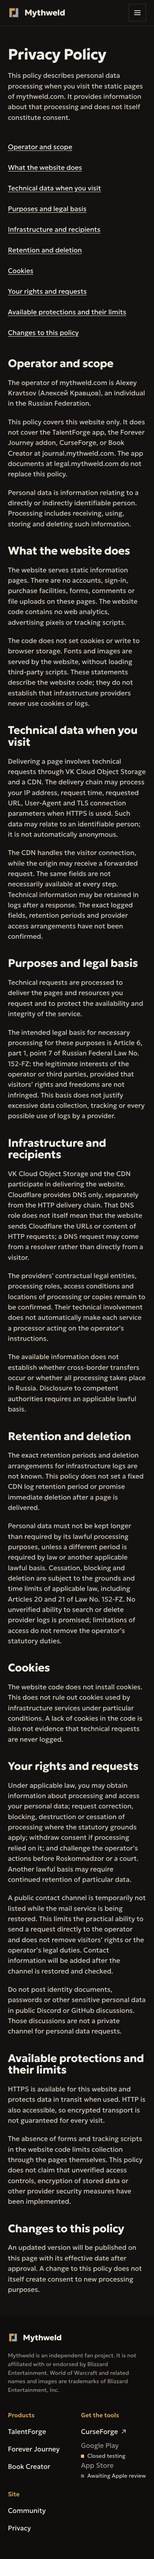
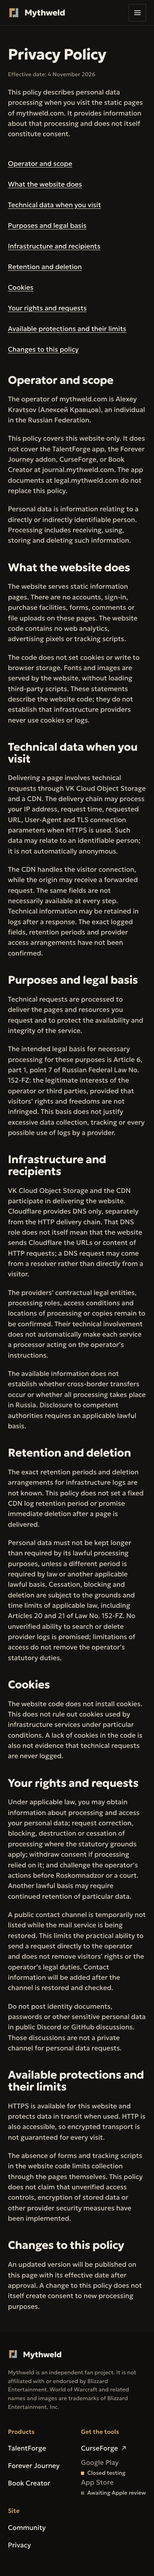
fix: require approved privacy effective date

Changed region(s): [[0.0308, 0.0312, 0.9231, 0.9665]]

diff --git a/tests/legal-components.test.ts b/tests/legal-components.test.ts
@@ -27,12 +27,19 @@ afterEach(() => {
 });
 
 describe.each(LOCALES)("legal page foundation (%s)", (locale) => {
-  it.each(["", "not-a-date", "2000-02-30", "2000-13-01"])(
+  it.each([undefined, null, 0, "", "not-a-date", "2000-02-30", "2000-13-01"])(
     "refuses an invalid effective date: %s",
     async (effectiveDate) => {
       const copy = legalFixtures[locale].privacy;
       if (copy === null) throw new Error("Missing privacy test fixture");
-      getDictionary(locale).legal.pages.privacy = { ...copy, effectiveDate };
+      const invalidCopy = { ...copy };
+      // Deliberately malformed runtime input, including a missing field.
+      if (effectiveDate === undefined) {
+        Reflect.deleteProperty(invalidCopy, "effectiveDate");
+      } else {
+        Reflect.set(invalidCopy, "effectiveDate", effectiveDate);
+      }
+      getDictionary(locale).legal.pages.privacy = invalidCopy;
       await expect(
         container.renderToString(LegalPage, {
           props: { locale, document: "privacy" },

diff --git a/tests/privacy.test.ts b/tests/privacy.test.ts
@@ -44,10 +44,18 @@ describe.each(LOCALES)("Privacy (%s)", (locale) => {
     }
   });
 
-  it("does not fabricate an effective date before owner approval", () => {
-    expect(t.legal.pages.privacy?.effectiveDate).toBeNull();
-    expect(article?.querySelector("time, .date")).toBeNull();
-    expect(article?.text).not.toMatch(/2026-11-04|4 ноября|4 November/);
+  it("renders the owner-approved effective date in the current locale", () => {
+    const date = t.legal.pages.privacy?.effectiveDate;
+    expect(date).toBe("2026-11-04");
+    expect(article?.querySelectorAll(".date time")).toHaveLength(1);
+    const time = article?.querySelector(".date time");
+    expect(time?.getAttribute("datetime")).toBe(date);
+    expect(time?.text).toBe(
+      locale === "ru" ? "4 ноября 2026 г." : "4 November 2026",
+    );
+    expect(article?.querySelector(".date")?.text).toContain(
+      t.legal.ui.effectiveDate,
+    );
   });
 
   it("contains the confirmed operator and the limited technical scope", () => {

diff --git a/tests/i18n.test.ts b/tests/i18n.test.ts
@@ -112,11 +112,16 @@ describe("dictionaries", () => {
   });
 
   it.each(LOCALES)(
-    "%s contains Privacy only, with publication date awaiting review",
+    "%s contains Privacy only, with the owner-approved calendar date",
     (locale) => {
       const pages = getDictionary(locale).legal.pages;
       expect(pages.privacy).not.toBeNull();
-      expect(pages.privacy?.effectiveDate).toBeNull();
+      const date = pages.privacy?.effectiveDate ?? "";
+      expect(date).toBe("2026-11-04");
+      expect(date).toMatch(/^\d{4}-\d{2}-\d{2}$/);
+      expect(new Date(`${date}T00:00:00Z`).toISOString().slice(0, 10)).toBe(
+        date,
+      );
       expect(pages.terms).toBeNull();
       expect(pages.contact).toBeNull();
     },

diff --git a/src/i18n/dictionaries/ru.ts b/src/i18n/dictionaries/ru.ts
@@ -15,7 +15,7 @@ export const ru = {
             "Как mythweld.com обрабатывает технические запросы, какие инфраструктурные сервисы доставляют страницы и что посетителям нужно знать о правах на персональные данные.",
         },
         heading: "Политика конфиденциальности",
-        effectiveDate: null,
+        effectiveDate: "2026-11-04",
         introduction: [
           {
             kind: "paragraph",

diff --git a/src/i18n/legal.ts b/src/i18n/legal.ts
@@ -31,8 +31,8 @@ interface LegalPageCopy {
 }
 
 export interface LegalDocumentCopy extends LegalPageCopy {
-  /** ISO calendar date (YYYY-MM-DD); null while publication awaits owner review. */
-  effectiveDate: string | null;
+  /** Owner-approved ISO calendar date (YYYY-MM-DD); required for publication. */
+  effectiveDate: string;
 }
 
 export interface LegalContactCopy extends LegalPageCopy {

diff --git a/src/i18n/dictionaries/en.ts b/src/i18n/dictionaries/en.ts
@@ -15,7 +15,7 @@ export const en = {
             "How mythweld.com handles technical requests, which infrastructure services deliver its pages, and what visitors should know about their personal data rights.",
         },
         heading: "Privacy Policy",
-        effectiveDate: null,
+        effectiveDate: "2026-11-04",
         introduction: [
           {
             kind: "paragraph",

diff --git a/docs/legal-drafts/review/issue-34/README.md b/docs/legal-drafts/review/issue-34/README.md
@@ -1,25 +1,25 @@
-# Privacy для согласования — Issue #34
+# Privacy — согласованная редакция, Issue #34
 
-Проверено локально **2026-11-04 (Asia/Novosibirsk)**. Это дата проверки,
-а не дата вступления политики в силу. Основа — Privacy v2 из Issue #21,
+Проверено локально **2026-11-04 (Asia/Novosibirsk)**. Основа — Privacy v2 из Issue #21,
 уточнённые факты Issue #34 и каркас PR #30; новый юридический аудит не проводился.
 
-Предлагаемые тексты находятся в `legal.pages.privacy` словарей
+Согласованные владельцем тексты находятся в `legal.pages.privacy` словарей
 [EN](../../../../src/i18n/dictionaries/en.ts) и
 [RU](../../../../src/i18n/dictionaries/ru.ts). Старые черновики v2 не изменены.
 В сборке существуют только `/privacy/` и `/ru/privacy/`; Terms/Contact отсутствуют.
 
 ## Дата и решение владельца
 
-`effectiveDate: null` в обеих локалях: непроверенная дата не показывается,
-служебная заглушка в HTML не добавлена. Предложение из Issue — **2026-11-04**,
-но владелец ещё не подтвердил дату первой публикации или конкретные EN/RU тексты.
+Владелец явно утвердил тексты EN/RU и дату **2026-11-04** в чате задачи.
+`effectiveDate: "2026-11-04"` установлен в обеих локалях. Страница показывает
+`4 November 2026` / `4 ноября 2026 г.` с машинной ISO-датой в `<time datetime>`.
+Контракт `LegalDocumentCopy.effectiveDate: string` снова обязателен;
+рендер документа отклоняет отсутствующую, null, пустую и некалендарную дату.
+Регрессии проверяют согласованную дату, календарную корректность и отображение.
 
-1. Владелец проверяет и утверждает оба текста, цели и предполагаемое основание обработки.
-2. Перед merge указать подтверждённую дату начала действия в обоих словарях;
-   заменить проверки ожидаемого `null` в `tests/{i18n,privacy}.test.ts`
-   проверками согласованной даты и её локализованного отображения; повторить проверки.
-   Если выпуск позже, синхронизировать дату с реальным началом действия.
+1. Согласование текстов и даты завершено; требуется повторное ревью точечной правки.
+2. Если публикация состоится позже 2026-11-04, перед выпуском синхронизировать
+   дату с реальным началом действия, обновить проверки и повторить их.
 3. Только владелец принимает решение о merge.
 4. Production deploy — отдельное явное решение владельца и ручной запуск.
 5. После разрешённого deploy проверить HTTPS GET обоих URL, тексты, дату и ссылки
